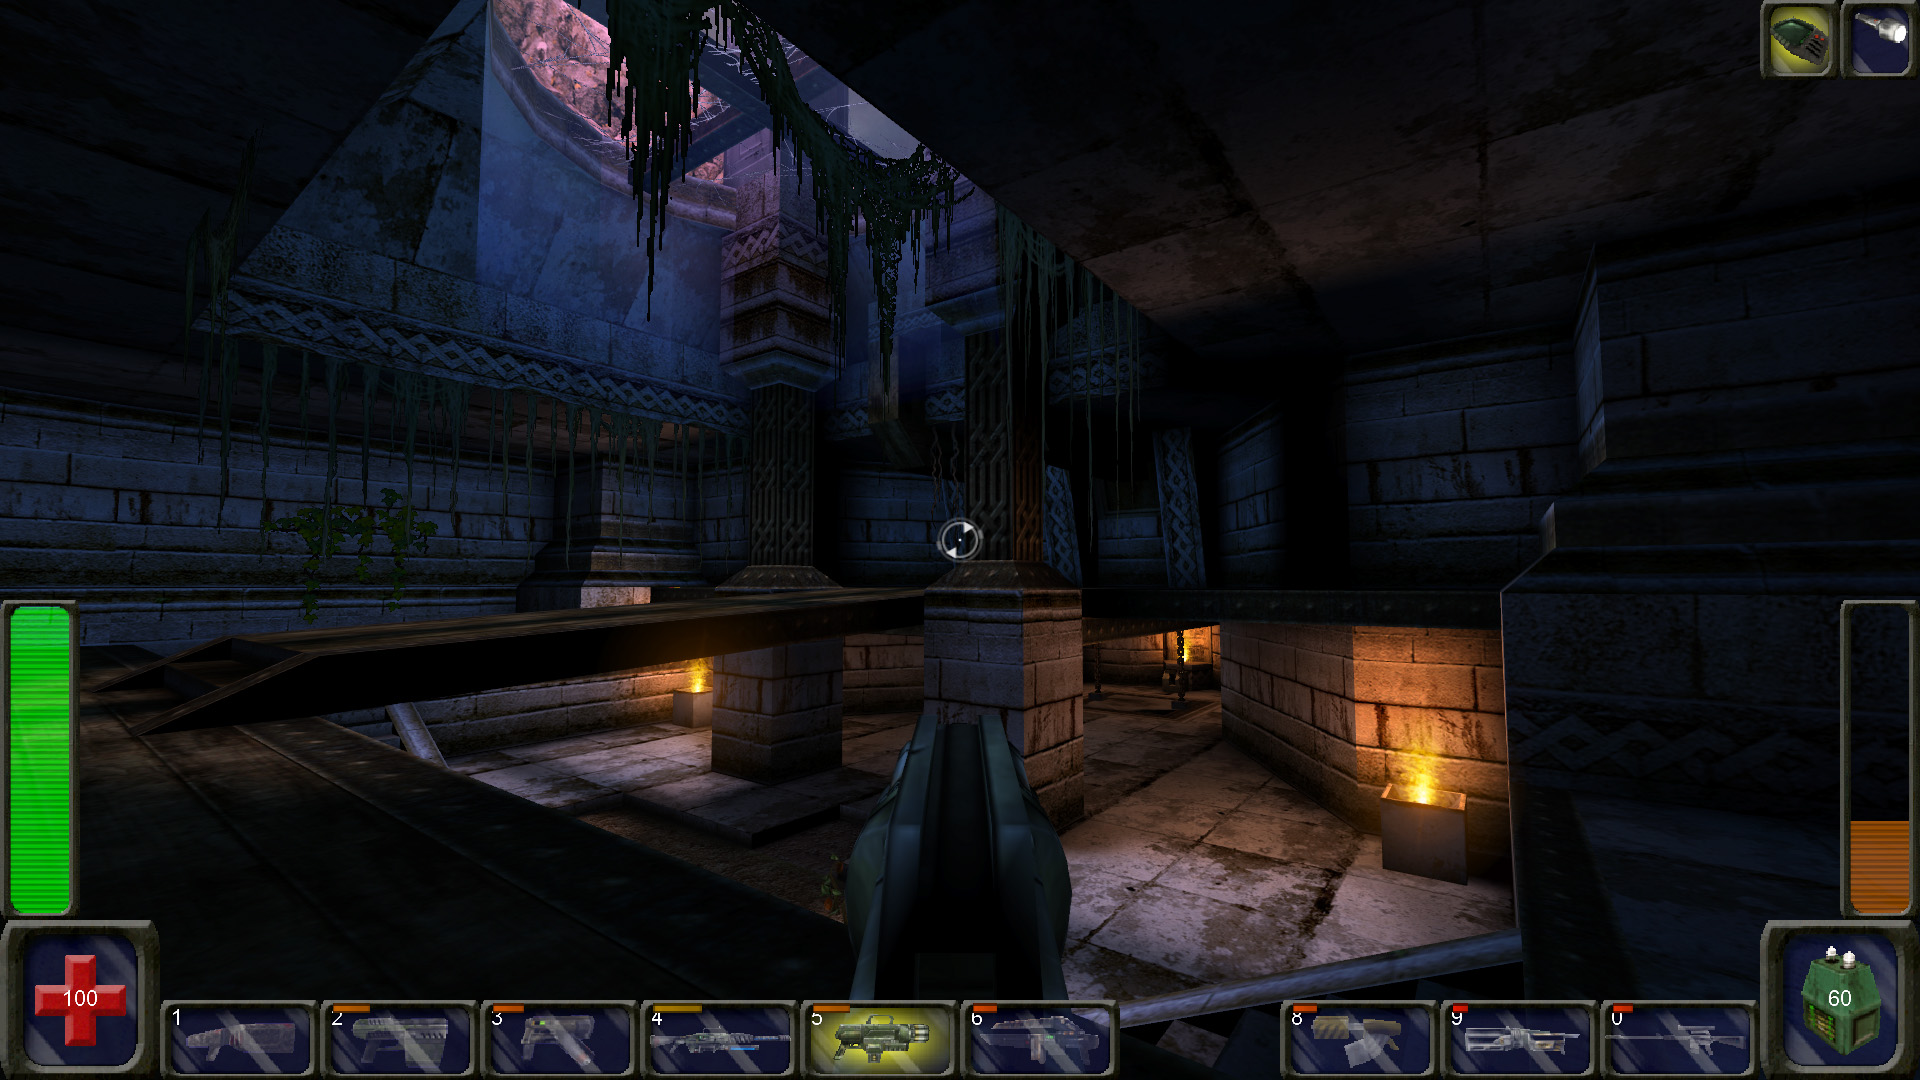
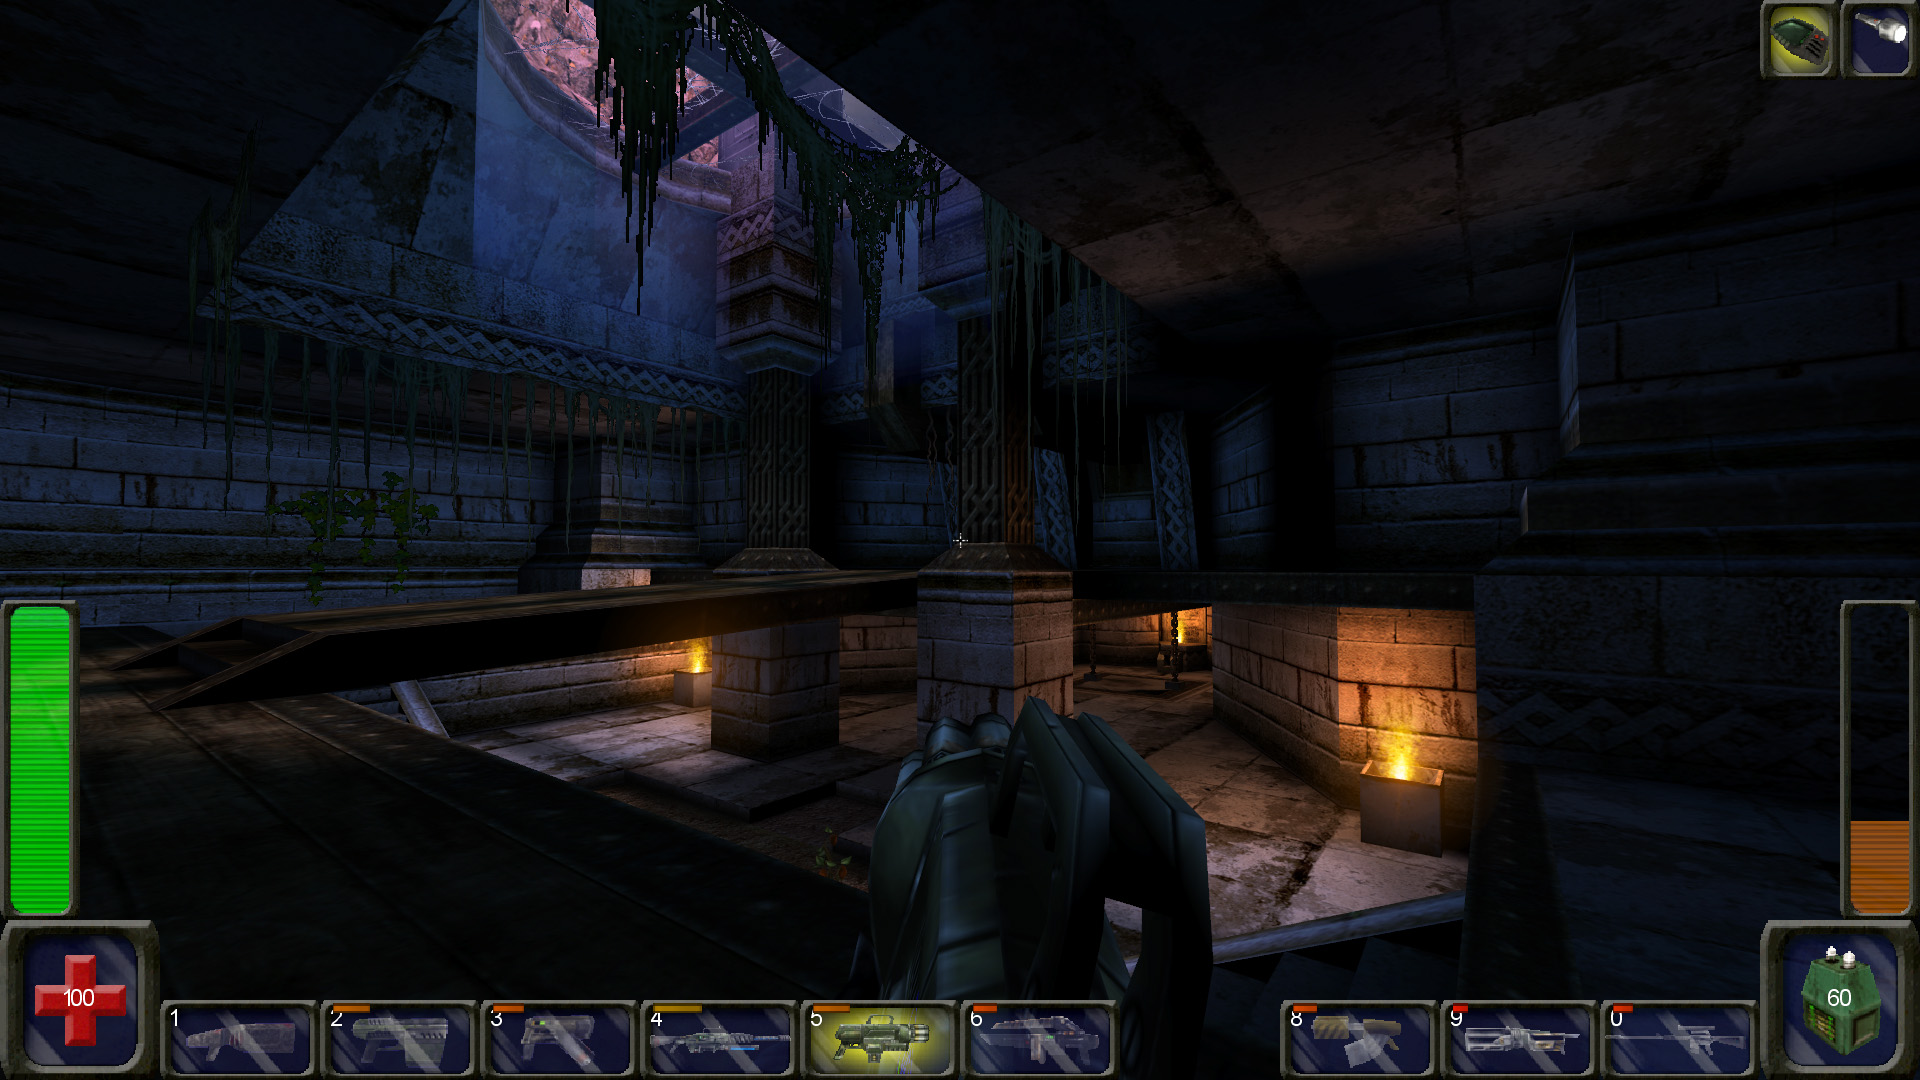
Updated screenshots with PulseGun.

diff --git a/Botpack227-info.html b/Botpack227-info.html
@@ -786,7 +786,7 @@
       </article>
     </div>
     <footer>
-      Last documentation update: 2022-06-23
+      Last documentation update: 2022-06-28
     </footer>
   </div>
 </body>
